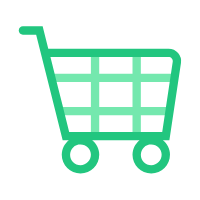
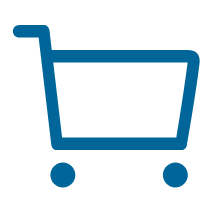
优化ui风格

diff --git a/pages/cart/cart.js b/pages/cart/cart.js
@@ -22,10 +22,9 @@ Component({
     deliveryPhone:'',
     deliveryAddress:'',
     totalRebate:0,
-    //--
-    //----
+
     shopcar: [],
-    cartColor: 'red',
+    cartColor: '#006699',
     hasDefaultAddress:false,
 
     pageNum:1,
@@ -74,6 +73,17 @@ Component({
       this.setData({
         mainHeight: h,
       });
+      let that = this;
+      if(that.data.selarr.length >0){
+        that.setData({
+          cartColor: '#006699',
+          cartDisabled: false
+        })
+      }else{
+        that.setData({
+          cartDisabled:true
+        })
+      }
       this.getCartMainData();
     },
     ready: function () {
@@ -117,19 +127,23 @@ Component({
               success: function (res) {
                 let data = res.data;
                 if (data.status == 200) {
-                  if(res.data.data.list != null 
-                  && res.data.data.list.length >0){
-                    let tempData = that.data.shopcarData.concat(res.data.data.list);
+                  let list = res.data.data.list;
+                  if( list!= null && list.length >0){
+                    if (that.data.allsel) {
+                      for(var i =0;i<list.length;i++){
+                        list[i].check = true
+                      }
+                    }
+                    let tempData = that.data.shopcarData.concat(list);
                     that.setData({
                       count: that.data.count + that.data.pageNum * that.data.pageSize,
-                      shopcarData: tempData,
                       loadFlag: tempData.length >= parseInt(res.data.data.page.total) ? false : true,
                       pullLoading: false,
                       canRequest: tempData.length >= parseInt(res.data.data.page.total) ? false : true,
-                      pageNum: ++pageNum
+                      pageNum: ++pageNum,
                     })
+                    that.computePriceAndRebate(tempData,that.data.allsel);
                   }
-                  
                 } else {
                   wx.showToast({
                     title: data.msg,
@@ -228,8 +242,13 @@ Component({
       let shopcar = this.data.shopcarData;
       let that = this;
       let allsel = !that.data.allsel;//点击全选后allsel变化
-      let total = 0;
-      let selarr = []
+      that.computePriceAndRebate(shopcar,allsel);
+    },
+
+    computePriceAndRebate(shopcar,allsel){
+      let that = this;
+      let selarr = [];
+      let total=0;
       let totalRebate = 0;
       for (let i = 0, len = shopcar.length; i < len; i++) {
         shopcar[i].check = allsel;//所有商品的选中状态和allsel值一样
@@ -255,7 +274,7 @@ Component({
 
       } else {
         that.setData({
-          cartColor: 'red'
+          cartColor: '#006699'
         })
       }
     },
@@ -321,17 +340,10 @@ Component({
               selarr: [],
               checkedCount: 0,
               totalNum: shopcar.length,
+              cartDisabled: that.data.selarr.length < 1,
+              cartColor: !that.data.selarr.length<1?'#006699':'',
+              loadFlag: !shopcar.length <1
             });
-            that.setData({
-              cartDisabled: that.data.selarr.length < 1
-            })
-            if (that.data.cartDisabled) {
-
-            } else {
-              that.setData({
-                cartColor: 'red'
-              })
-            }
           }
         }
       })
@@ -347,10 +359,10 @@ Component({
      let touchDown = e.touches[0].clientY;
      this.data.touchDown = touchDown;
          // 获取 inner-wrap 的高度
-    var innerWrap = wx.createSelectorQuery();
-      innerWrap.select('#inner-wrap')
-      innerWrap.boundingClientRect();
-      innerWrap.exec(function(rect){
+    var innerWrapQuery = wx.createSelectorQuery();
+      var innerWrap=innerWrapQuery.select('#inner-wrap')
+      var clientRect=innerWrap.boundingClientRect();
+      clientRect.exec(function(rect){
         if (rect != null) {
           self.data.innerHeight = rect.height;
         } else {
@@ -387,11 +399,11 @@ Component({
        && startScroll == 0) {
                // 下拉刷新 的请求和逻辑处理等
           console.log('开始下拉刷新...')
-          that.scrollDown()
+        self.scrollDown()
       } else if (currentY < touchDown && touchDown - currentY >= 20 && innerHeight - height == startScroll) {
                // 上拉加载 的请求和逻辑处理等
         console.log("开始上拉加载...")
-        that.scrollDown();
+        self.scrollDown();
       }
     },
 
@@ -447,7 +459,7 @@ Component({
 
       } else {
         that.setData({
-          cartColor: 'red'
+          cartColor: '#006699'
         })
       }
       this.judgmentAll();//每次按钮点击后都判断是否满足全选的条件  
@@ -758,17 +770,7 @@ Component({
   
 
   // onLoad: function (options) {
-  //   let that = this;
-  //   if(that.data.selarr.length >0){
-  //     that.setData({
-  //       cartColor: 'red',
-  //       cartDisabled: false
-  //     })
-  //   }else{
-  //     that.setData({
-  //       cartDisabled:true
-  //     })
-  //   }
+  // 
   // },
 
   

diff --git a/pages/login/login.js b/pages/login/login.js
@@ -33,7 +33,6 @@ Page({
     })
     let auth = wx.getStorageSync('token')
     if (auth!=null && auth !='') {
-      console.log('auth in login page:',auth)
       wx.request({
         url: app.globalData.serverUrl + 'user/token/expires',
         header: {
@@ -52,6 +51,13 @@ Page({
               
             }else{
               //token未过期
+              setTimeout(function(){
+                wx.showLoading({
+                  title: '正在自动登录',
+                  mask:true
+                })
+              },1000)
+              wx.hideLoading()
               wx.reLaunch({
                 url: '/pages/home/home?currentTab=0',
               })
